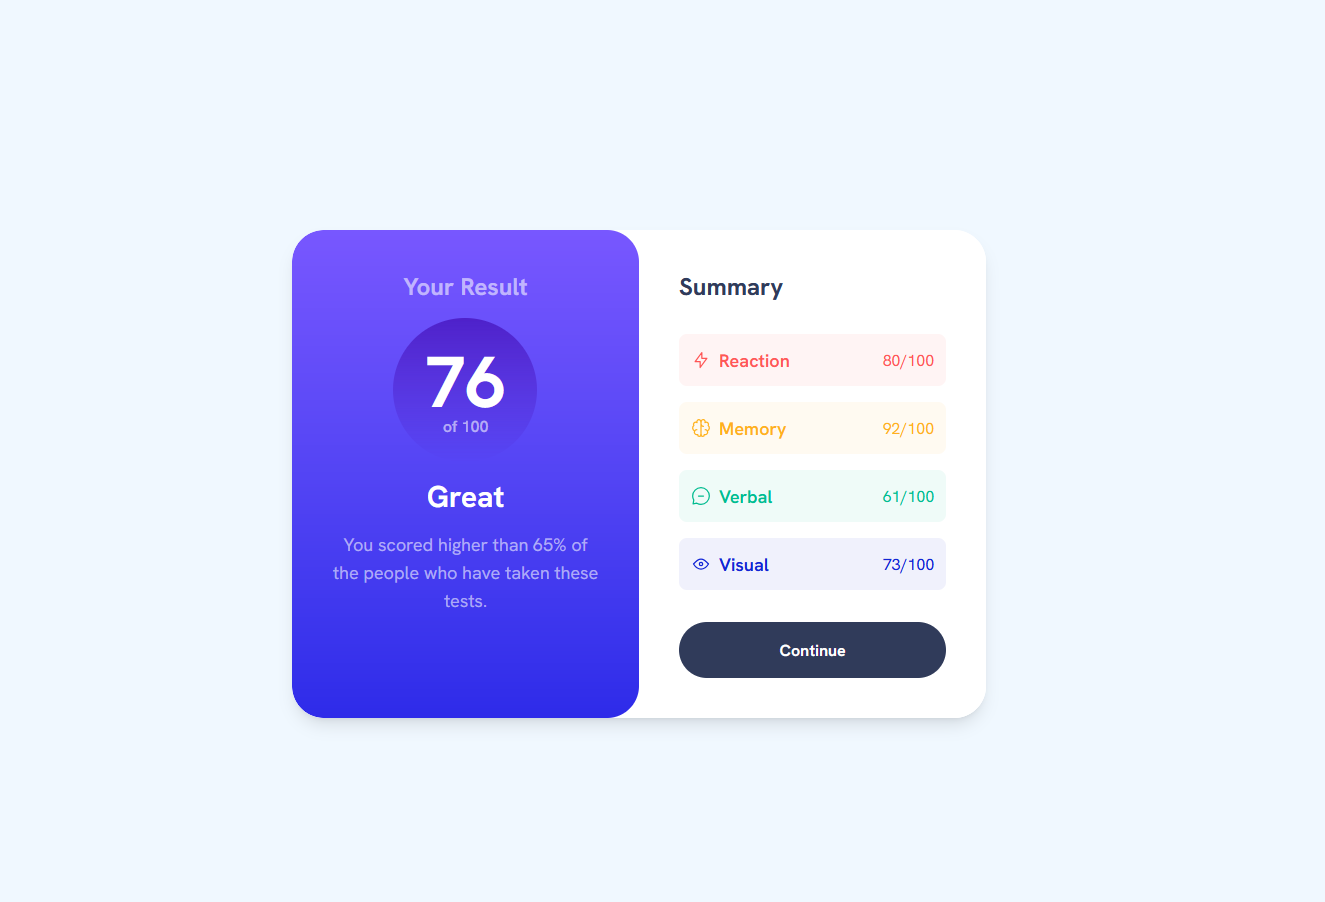
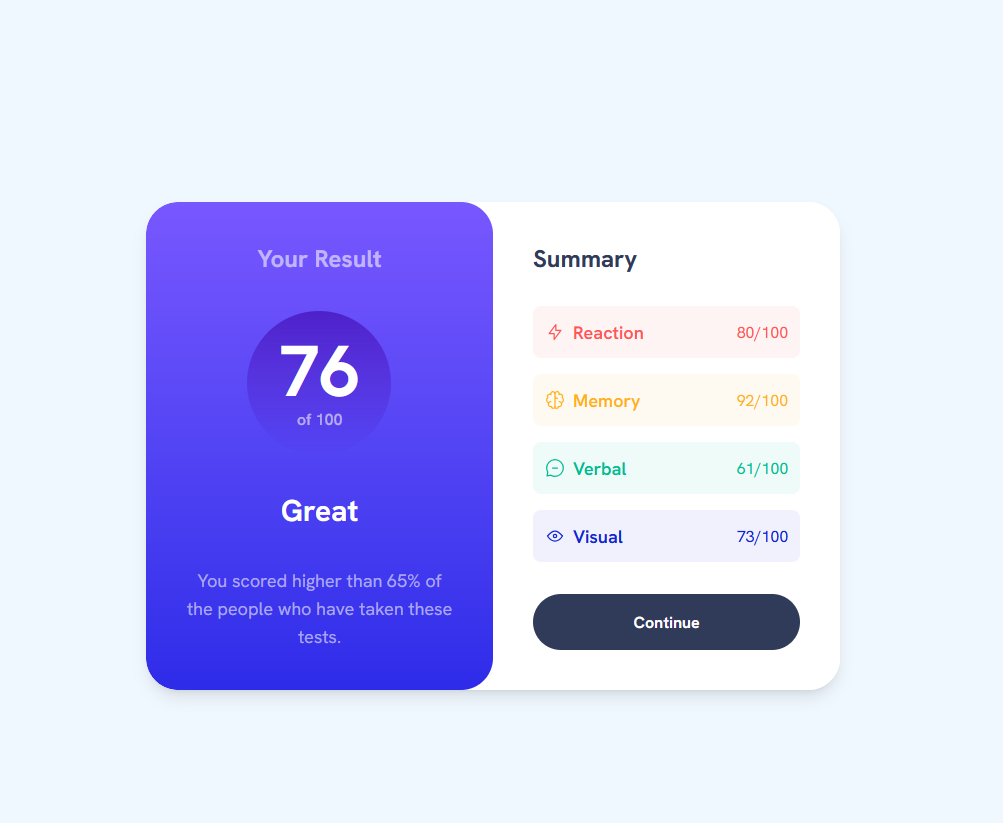
Readme fixes

diff --git a/README.md b/README.md
@@ -20,7 +20,7 @@ Users should be able to:
 
 ### Screenshot
 
-![](./src/assets/images/summary-card.png)
+![](./public/summary-card.png)
 
 ### Links
 
